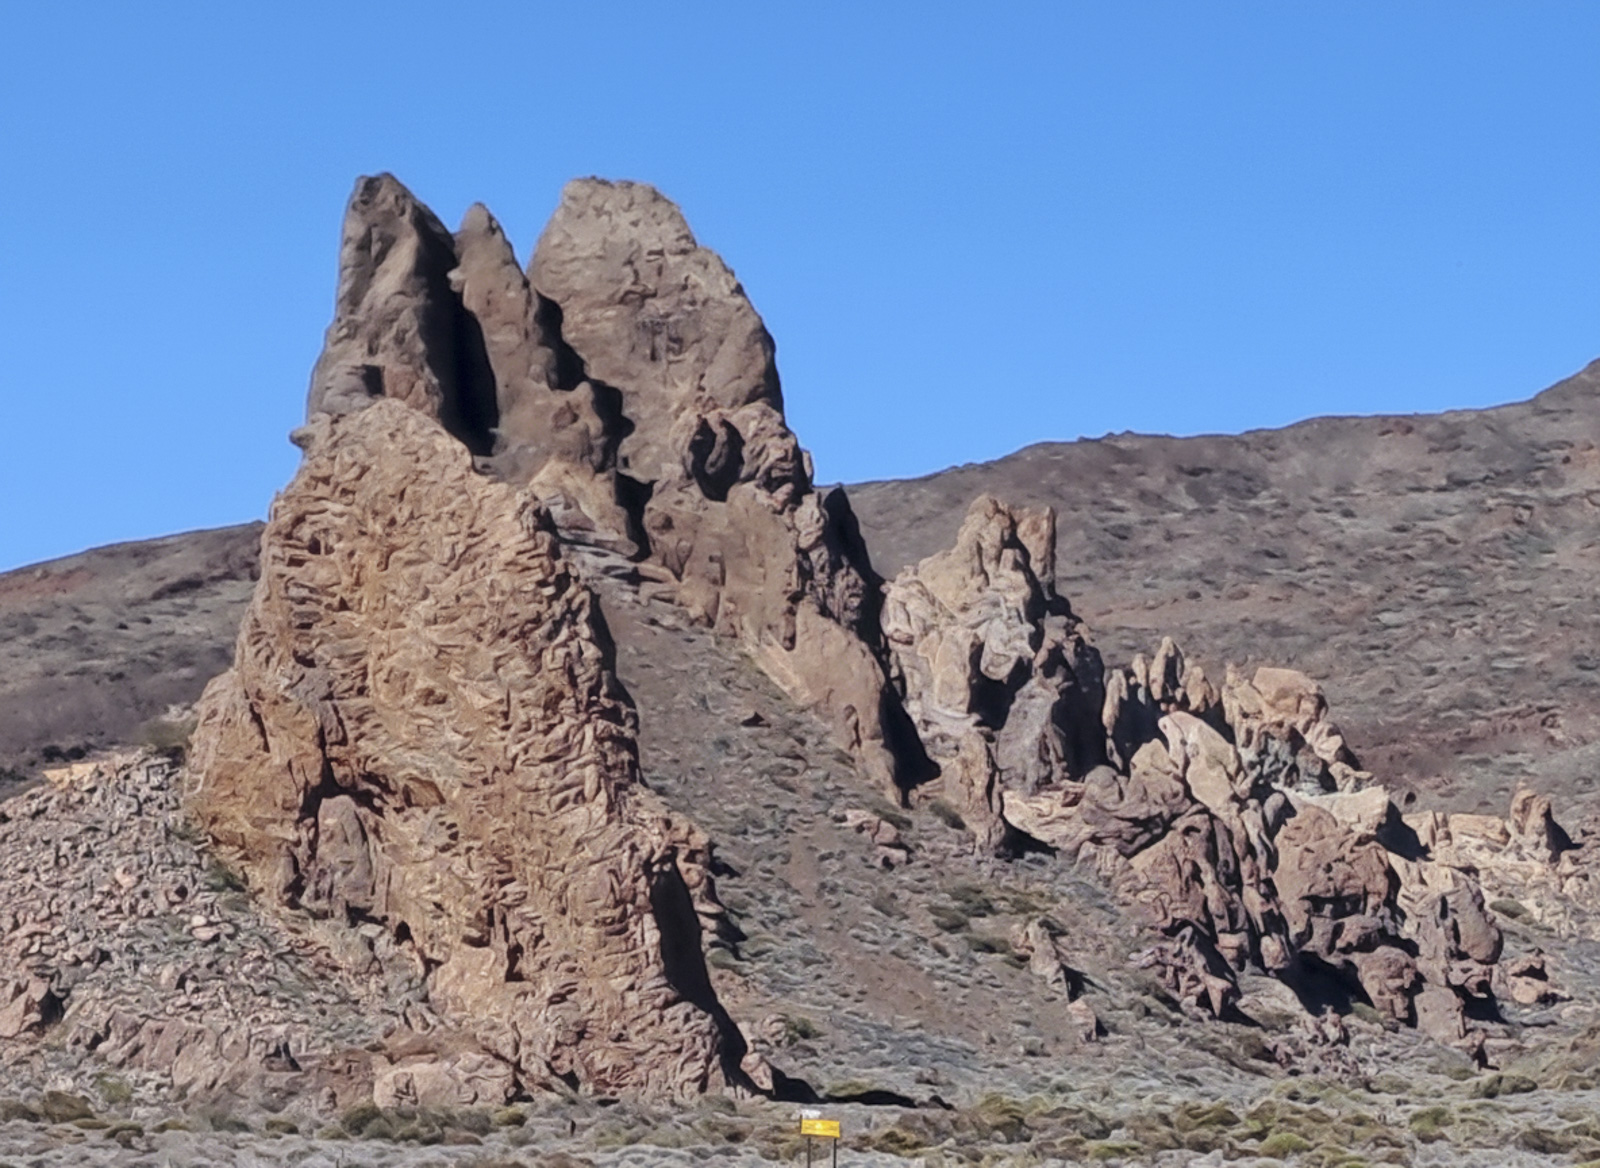
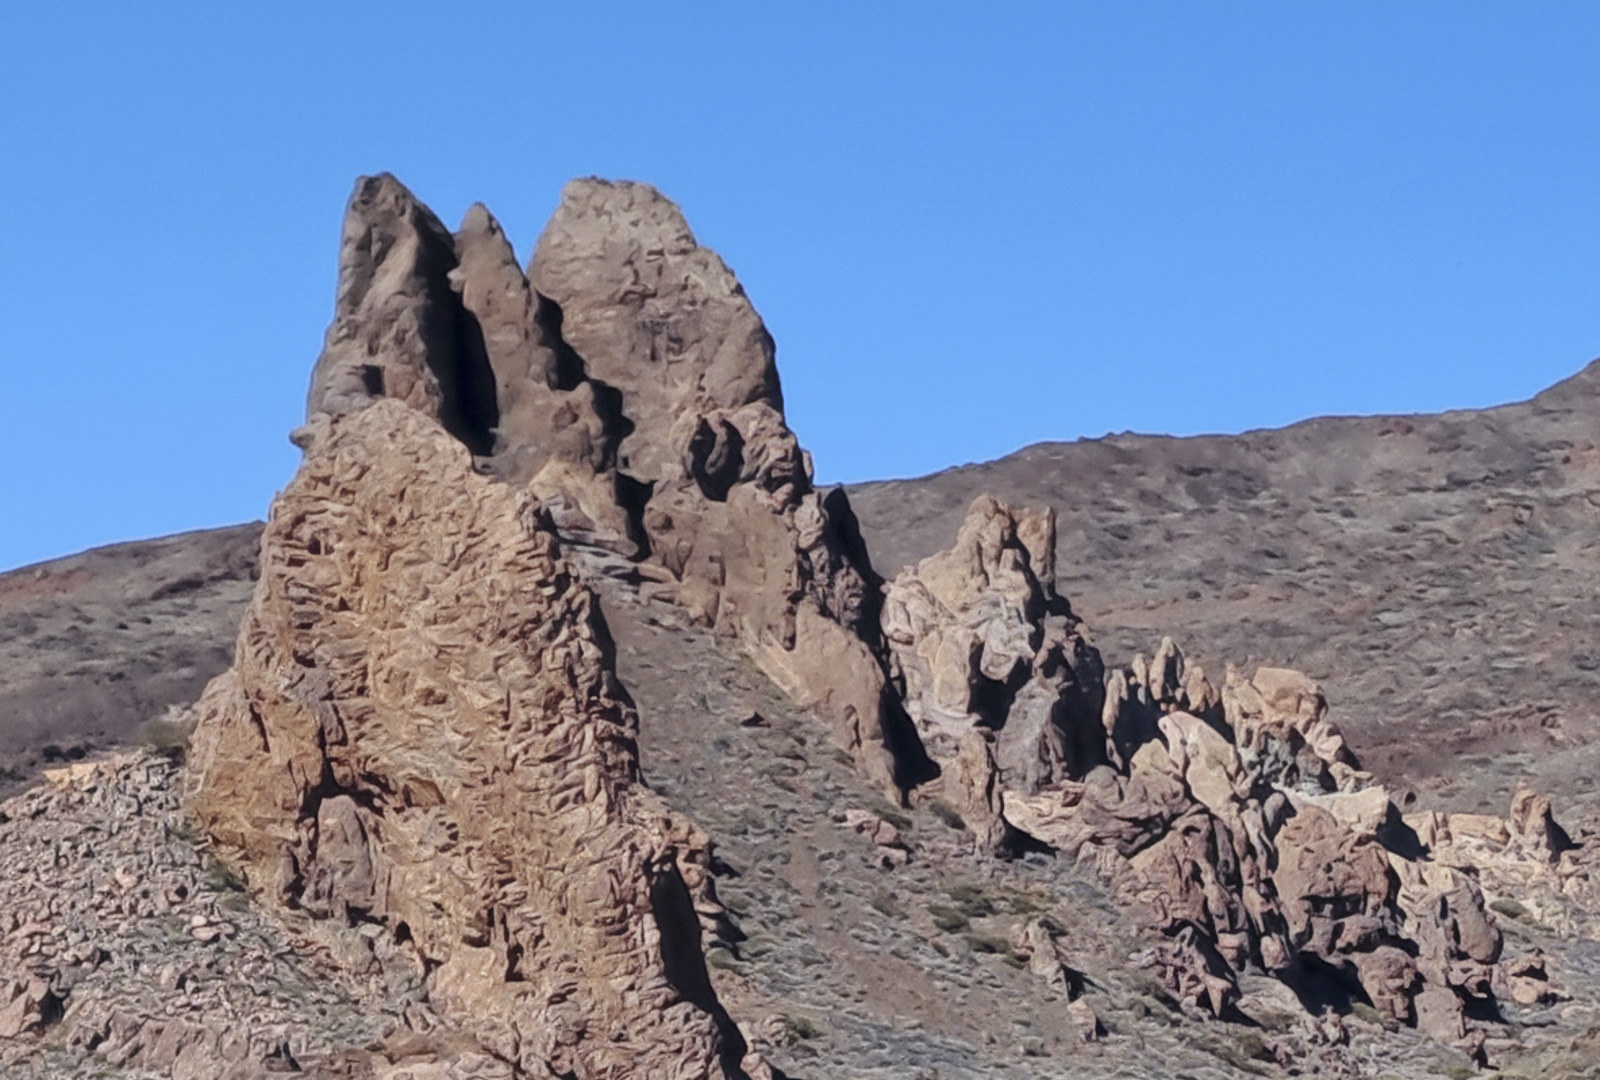
Lore image audit, Batch 2: seven stock anachronisms carded, two frames cropped
Every one of the 123 lore images opened and judged on 3 September 2026,
closing the never-opened remainder of the 12 August review. Seven stock
photographs of present-day objects on concept or institution pages replaced
with make-emblem-card.ps1 cards (epithets from each page's own description),
alt text rewritten; two Tenerife frames cropped to remove a road sign. Keeps
recorded with reasons in images.md; card recipes in image-prompts.md.

diff --git a/CHANGELOG.md b/CHANGELOG.md
@@ -8,6 +8,7 @@ The format loosely follows [Keep a Changelog](https://keepachangelog.com/en/1.1.
 
 ### Changed
 
+- **Seven stock lore images replaced with designed emblem cards, two Tenerife frames cropped** (2026-09-03, closing Batch 2 of the 12 August image review: every one of the 123 lore images opened and judged, none read from its alt text). Replaced, all stock photographs of present-day objects on concept or institution pages: `galactic-stardate` (an antique clock over a calendar), `year-zero` (a steampunk relief with lettering and the digits 1870), `post-teleport-ascension-stress-disorder` (a present-day operating theatre), `knarr-line` (an ISS window with a Soyuz outside), `federation-of-sentient-beings` (a real Earth-observation satellite), `star-rangers-command-hierarchy` and `united-space-consortium` (a delegate's voting console in a real parliament chamber, two crops of one shoot). Each is now a `make-emblem-card.ps1` card with its epithet drawn from the page's own description; alt text rewritten to match. `highland-rock-spires.jpg` and `highland-sentinel-lizard.jpg` lose a yellow road sign from the bottom edge by crop. Kept with reasons recorded in `story-bible/images.md`: the Dalkey Island watchtower, the JWST Carina field, the generated fusion-ceiling yard, and the Imperium tower.
 - **Codex-art refiling: the two open decisions ruled** (2026-09-03, Dermot's rulings, chosen from options the same day; story-bible only). The codex title-card convention stands, and a refiled artwork goes in the entry body at full size with a caption naming its in-world maker, the card in `image:` as on every other codex entry. The rule is prospective only: the one recoverable candidate, Qiren Tal's first portrait, was opened and fails the quality bar on trope and tone, so nothing already gone is rescued and no git dig is owed on future rejections. Recorded under *Two things decided* in `story-bible/images.md`, struck through in `open-questions.md`; the parked headmate image now waits only on the interiority-guardrail ruling and a codex entry to live on.
 - **The AI-image exemption given a shape** (2026-09-03, Dermot's ruling, chosen from three options the same day; drafted for his review because it is policy and reader-facing). The portfolio site's own-work-only rule stops at this repository, and the exemption is now stated under *Conventions* in `story-bible/images.md` with a pointer from `CLAUDE.md`: a generator may make only what no camera can (a non-human body, a habitat, an artificial mind, an artefact, a portrait of someone who does not exist); anything a camera can photograph comes from Dermot's own frames or takes a card, never a prompt; a concept is always carded; the membrane runs one way, so nothing the pipeline touches ever returns to the portfolio, the Gallery folders or a competition; and the About page discloses it once, in a new *How this site is illustrated* section. It settles the Tier 2 stock-landscape policy by rule (replace from the archive when a frame fits, card otherwise, opportunistically) and is indexed as ruled in `open-questions.md`.
 - **The reading tiers nest** (2026-09-03, Dermot's direction, all readings confirmed the same day — `story-bible/intake-2026-09-03.md`): the children's tier is visible from the young-adult tier, both from the general tier, and all from the contemplative edition. `lib/editions.js` now defines each tier once (`CHILDREN_TIER` ⊂ `YOUNG_ADULT_TIER` ⊂ `GENERAL_TIER` ⊂ `CONTEMPLATIVE_TIER`) and spreads it into the entries, every edition names its `tier`, and `validateEditions` asserts the chain and refuses an entry that narrows below its tier. Live effect on the next deploy of each domain: starquest.site gains the pet chapters and cast; sciencefiction.site gains the Five-O and pet material; fellowshipoflight.org and church-space.site gain the whole main sequence (measured content pages, before the relatedUrls fallback: pets 47 unchanged, starquest 16 → 53, sciencefiction 64 → 102, fellowship 27 → 126, church-space 12 → 114). The canonical site stays unfiltered at the general tier; the archive codex site stands outside the ladder by design. The general-tier maintenance duty ("add each new thread here too") now lives on `GENERAL_TIER` once. `test/editions.test.js` pins the ladder. The contemplative-only POV scene the direction also allows is the next PR.

diff --git a/story-bible/images.md b/story-bible/images.md
@@ -3078,6 +3078,61 @@ the moment a prompt moves up it has been decided.
   Worth either fixing or amending the table; the table currently reads as
   though it were enforced.
 
+#### Batch 2 closed — every lore image opened, 3 September 2026
+
+The "roughly 45 judged from alt text and never opened" remainder of the
+12 August audit. All 123 files under `src/images/lore/` were laid out on
+fresh contact sheets with filename, size and alt text, and every one was
+looked at; twelve were pulled to full size. Judged against the seven
+questions in `F:\CLAUDE\Star Rangers Image Review\REVIEW-DECISIONS.md` and
+the 18 August exclusions.
+
+**Replaced with designed emblem cards (`make-emblem-card.ps1`), seven** — all
+stock photographs of contemporary objects on concept or institution pages,
+which fails the anachronism exclusion outright and needs no Codex offer. The
+epithet and qualifier lines are lifted from each page's own `description`
+(derived, not authored); the device follows the tool's vocabulary.
+
+| File | What it was | Device |
+| --- | --- | --- |
+| `galactic-stardate.jpg` | Sepia antique clock face over a paper calendar — the twin of the French dial deleted 15 August | sundial |
+| `year-zero.jpg` | A steampunk relief of cogs, a hot-air balloon, raised letters and the digits 1870 | sundial |
+| `post-teleport-ascension-stress-disorder.jpg` | A stock render of a present-day operating theatre: C-arm scanner, surgical robot, monitors | fold |
+| `knarr-line.jpg` | A real ISS cupola window with a Soyuz outside, labelled hardware in frame | chevron |
+| `federation-of-sentient-beings.jpg` | A real Earth-observation satellite over cloud, portrait-oriented into a landscape slot | rings |
+| `star-rangers-command-hierarchy.jpg` | A delegate's voting console in a real parliament chamber — Tier 2's own named example | chevron |
+| `united-space-consortium.jpg` | The same chamber, the same console, a different crop | rings |
+
+**Cropped, two** — Dermot's own Tenerife frames on Kernowek Reach carried a
+yellow road sign at the bottom edge: `highland-rock-spires.jpg` (1600×1168 →
+1600×1080) and `highland-sentinel-lizard.jpg` (1168×880 → 1168×816). A crop
+is within the darkroom test; nothing else touched.
+
+**Looked at and kept, with the reason recorded:**
+
+- `island-watchtower.jpg` — Dermot's Dalkey Island frame on *The Cost of the
+  Crossing*: a round stone tower and a ruined stone house on a green island.
+  Locally recognisable, not iconic; a stone tower can stand as a ruin in any
+  century, and the alt names nothing. Kept. Dermot's call if he reads it as a
+  real place.
+- `noogenic-seeding-system.jpg` — the JWST Carina "cosmic cliffs" (NASA/ESA/CSA,
+  public domain) with a small composited circuit motif. A nebula is not of a
+  century; kept as tier 4, alt accurate.
+- `the-fusion-ceiling.jpg` — generated; two workers, faces small and turned,
+  no lettering. Kept.
+- `the-imperium.jpg` — real skyscraper, already the recorded precedent for
+  *art is illustrative*. Left as the conventions say.
+- `canonical-glossary-and-migration-guide.jpg` — a stock open book at 1920px.
+  Claims nothing, dates nothing; a card would suit a reference page better.
+  Left for an opportunistic swap, not a project.
+- Everything else: designed cards, abstract or astronomical stock (tier 4),
+  generated scenes with no legible face, and Dermot's own frames. Nothing
+  else fails a question.
+
+**Still open from the same look, unchanged:** the twelve `prismere-*` /
+`prismeri-*` files at 768px (the regenerate-or-upscale decision) and the size
+breaches under *Convention breaches* above.
+
 ### Intake 2026-08-24 — first candidate for the Codex-art pool: a headmate of Tissadelle
 
 Dermot supplied one generated image in session (Botify AI; no prompt kept),

diff --git a/src/lore/star-rangers-command-hierarchy.md b/src/lore/star-rangers-command-hierarchy.md
@@ -5,7 +5,7 @@ category: "Institutions"
 tags: [star-rangers, rank, command-hierarchy, field-officer, chief, chief-provost, chief-science-officer, science-corps, guild-leadership, chapter-leader, corps-president, starwarden, archwarden, starwarden-first-officer, line-captain, star-captain, high-captain, council-of-high-captains, triumvirate, field-triumvirate, chain-of-command, oversight-council, institutions]
 description: "The Star Rangers' internal rank ladder, from Novice to the Triumvirate, how a civil-service career track and a naval command track were fused into one chain at founding, why the specialist corps are governed as guilds the command ladder has no say over, when a field-level Triumvirate can authorise emergency action, and why the Rangers are neither an army nor a navy despite sounding like one."
 image: "star-rangers-command-hierarchy.jpg"
-image_alt: "A close-up of a delegate's electronic voting console on a long wooden desk in an empty debating chamber: a wedge of grey plastic with a card slot, a small blue screen and three buttons marked with a circle, a cross and a tick, its white cable trailing left. The curving desk and rows of empty blue upholstered seats behind it are out of focus."
+image_alt: "Designed cover for Rank and the Chain of Command: three stacked chevrons in a pale blue glow on a dark navy field, the category INSTITUTIONS above and the title beneath, with the lines The Rank Ladder, Novice to Triumvirate and Two career tracks fused into one chain."
 ---
 
 Ask a Ranger why the ranks sound like a navy and most will shrug: ships and stations need one person who is unambiguously in command when the instruments disagree with each other and there is no time to convene a committee about it. Ask why the charter still calls the Rangers independent of "any military command hierarchy" and the same Ranger will point out that the two facts are not in tension. One is about where authority sits. The other is about who it answers to.

diff --git a/story-bible/image-prompts.md b/story-bible/image-prompts.md
@@ -600,3 +600,22 @@ first kept in `image-out/` until the PR merges):
   "A member behind a registration" -Institution "Circulating; no archival
   master" -Author "Unattributed" -Motif none -Underlay <the artwork>`, default
   scrim.
+
+---
+
+## 2026-09-03 — seven emblem cards from the Batch 2 lore audit
+
+All `scripts/make-emblem-card.ps1`, title and category from each page's front
+matter, epithet and qualifier lifted from the page's `description`. Replacing
+stock anachronisms; the audit record is in `images.md` under *Images that
+should not stay*.
+
+| Page | Device | Tint | Accent | Epithet | Qualifier |
+| --- | --- | --- | --- | --- | --- |
+| galactic-stardate | sundial | #1C1810 | #D9C08A | Measured by Galactic Rotation | Cycles, not planetary years |
+| year-zero | sundial | #1A1712 | #D2B98A | Year Zero | The events of 2826 UCSD |
+| post-teleport-ascension-stress-disorder | fold | #16202A | #A9C4C9 | A Medical Corps-Recognised Condition | Distinct from ordinary post-jump fatigue |
+| knarr-line | chevron | #1B2230 | #B8C7D6 | Belt Shipping and Ice-Mining Cooperative | Old enough to have helped write the first navigation treaty |
+| federation-of-sentient-beings | rings | #1A2426 | #A8CDB9 | A Multi-Species Cooperative of Worlds | Mutual aid rather than central authority |
+| star-rangers-command-hierarchy | chevron | #141A26 | #9FB6CE | The Rank Ladder, Novice to Triumvirate | Two career tracks fused into one chain |
+| united-space-consortium | rings | #26201A | #D4B48C | The First Attempt at Interplanetary Governance | And why it did not survive its own contradictions |

diff --git a/src/lore/post-teleport-ascension-stress-disorder.md b/src/lore/post-teleport-ascension-stress-disorder.md
@@ -5,7 +5,7 @@ category: "Medicine"
 tags: [teleportation, ptasd, medical-corps, safety-corps, boundary-zone, etheric, cosmic-cascade, psychology]
 description: "A Medical Corps-recognised clinical condition distinct from ordinary post-jump fatigue: personnel who teleport through boundary-proximate or fold-adjacent zones report a disorientation grief clinicians can't explain as fear, and can't fully explain at all."
 image: "post-teleport-ascension-stress-disorder.jpg"
-image_alt: "An empty operating theatre in white and pale blue: two large domed surgical lights on ceiling booms above a bare operating table, a multi-armed robotic surgical system mounted at its head, a mobile C-arm imaging scanner to one side and monitors displaying scans on the other."
+image_alt: "Designed cover for Post-Teleport Ascension Stress Disorder: a fold device, two small points joined by a folded curve, in a pale blue-grey glow on a dark slate field, the category MEDICINE above and the title beneath, with the lines A Medical Corps-Recognised Condition and Distinct from ordinary post-jump fatigue."
 ---
 
 Ordinary jump fatigue has a known shape: anxiety, a flattened mood, a day or two of cognitive fog. Medical Corps clinicians can chart it, medicate around it, and clear a Ranger back to duty on a schedule. Post-Teleport Ascension Stress Disorder does not have that shape, and nobody currently signing off on fitness-for-duty forms claims to fully understand why.

diff --git a/src/lore/knarr-line.md b/src/lore/knarr-line.md
@@ -5,7 +5,7 @@ category: "Factions"
 tags: [knarr-line, faction, belt, sol-system, scandinavian, nordic, the-thing, institutions, history]
 description: "A Belt-based shipping and ice-mining cooperative old enough to have helped write the Solar System's first navigation treaty — and, five hundred years and four changes of Solar System government later, the closest thing its scattered Nordic-heritage habitats have ever had to a government of their own."
 image: "knarr-line.jpg"
-image_alt: "The view out through a space station's round window, its thick bolted frame and stowed equipment filling the edges of the frame: a spacecraft with two long solar arrays holds station against the black, the sun flaring white at the left, and Earth's atmosphere lies as a thin lit band across the bottom."
+image_alt: "Designed cover for The Knarr Line: three stacked chevrons in a pale steel-blue glow on a dark blue-grey field, the category FACTIONS above and the title beneath, with the lines Belt Shipping and Ice-Mining Cooperative and Old enough to have helped write the first navigation treaty."
 ---
 
 Every Solar System power that has ever tried to govern the Belt outright has eventually settled for governing around it instead. The Knarr Line is the reason why: it was extracting ice from the Belt before there was a Solar System government to ask permission from, and it has outlasted every one that has tried to make it ask since.

diff --git a/src/lore/united-space-consortium.md b/src/lore/united-space-consortium.md
@@ -5,7 +5,7 @@ category: "History"
 tags: [usc, united-space-consortium, history, governance, solar-system, faction, predecessor]
 description: "The United Space Consortium: the Solar System's first attempt at interplanetary governance, and why it failed to survive contact with its own contradictions."
 image: "united-space-consortium.jpg"
-image_alt: "A close-up across a wooden desk in an empty debating chamber: a grey electronic voting console with a card slot, a small blue screen and three buttons marked with a tick, a cross and a circle, beside a recessed strip of power sockets set into the desktop. Tiered rows of empty blue upholstered seats recede out of focus behind it."
+image_alt: "Designed cover for United Space Consortium: three concentric rings in a warm sand-gold glow on a dark brown-black field, the category HISTORY above and the title beneath, with the lines The First Attempt at Interplanetary Governance and And why it did not survive its own contradictions."
 ---
 
 Before the wars, there was an assembly chamber full of delegates who could still say they represented the Solar System. The tragedy is not that the chamber was false. It is that it was too slow when distance and power stopped waiting for it.

diff --git a/src/lore/federation-of-sentient-beings.md b/src/lore/federation-of-sentient-beings.md
@@ -5,7 +5,7 @@ category: "Factions"
 tags: [federation-of-sentient-beings, faction, multi-species, cooperative, star-rangers, aspenar]
 description: "A peaceful multi-species cooperative of independently governed worlds, organised around mutual aid rather than central authority, and the Star Rangers' longest-standing external partner."
 image: "federation-of-sentient-beings.jpg"
-image_alt: "An uncrewed satellite in low orbit, photographed from above and behind: a boxy silver instrument bus with a white dish antenna on a mast and two solar arrays spread on either side, against a dense star field, with the cloud-covered curve of Earth filling the lower half of the frame."
+image_alt: "Designed cover for The Federation of Sentient Beings: three concentric rings in a pale sea-green glow on a dark green-black field, the category FACTIONS above and the title beneath, with the lines A Multi-Species Cooperative of Worlds and Mutual aid rather than central authority."
 ---
 
 Most first-contact records read like negotiations. The Federation of Sentient Beings' contact record with the Star Rangers reads like a supply manifest — because that is what it was.

diff --git a/src/lore/galactic-stardate.md b/src/lore/galactic-stardate.md
@@ -5,7 +5,7 @@ category: "Timeline Notes"
 tags: [timeline, stardate, chronology, standards, galactic-rotation]
 description: "A long-range stardate system measured by galactic rotation cycles rather than planetary years."
 image: "galactic-stardate.jpg"
-image_alt: "A sepia-toned double exposure: the face of an antique clock with Roman numerals and ornate filigree hands, overlaid on the grid of a paper calendar whose dates run from seventeen to twenty-eight, so that the two sets of numbers read across each other."
+image_alt: "Designed cover for Galactic Stardate: a sundial device, a circle with tick marks and a single hand, in a warm amber glow on a near-black field, the category TIMELINE NOTES above and the title beneath, with the lines Measured by Galactic Rotation and Cycles, not planetary years."
 ---
 
 When archives must outlast planets, they stop trusting planets as their clock. That is the civic logic behind Galactic Stardate.

diff --git a/src/lore/year-zero.md b/src/lore/year-zero.md
@@ -3,7 +3,7 @@ layout: lore-entry.njk
 title: "2826 UCSD Timeline Events"
 category: "Timeline Notes"
 image: "year-zero.jpg"
-image_alt: "A steampunk relief panel in weathered grey-brown metal: dozens of embossed cogs and gearwheels of every size crowded edge to edge, with a hot-air balloon, two small clock faces, scattered raised letters and the digits 1870 pressed into the surface among them."
+image_alt: "Designed cover for 2826 UCSD Timeline Events: a sundial device, a circle with tick marks and a single hand, in a warm amber glow on a near-black field, the category TIMELINE NOTES above and the title beneath, with the lines Year Zero and The events of 2826 UCSD."
 ---
 
 *Timeline entries are each filed individually in the [Timeline](/star-rangers/timeline/) section. This article notes the 2826 UCSD starting conditions.*
